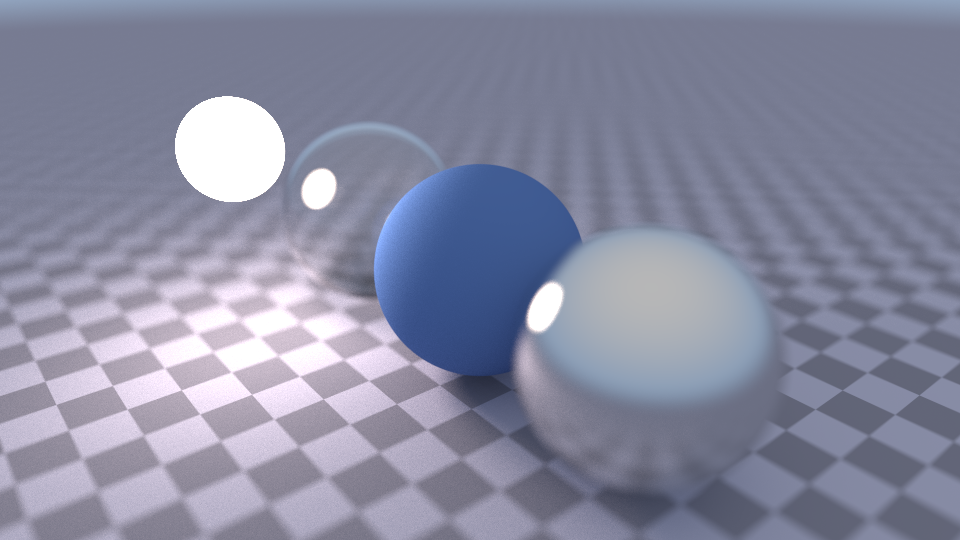
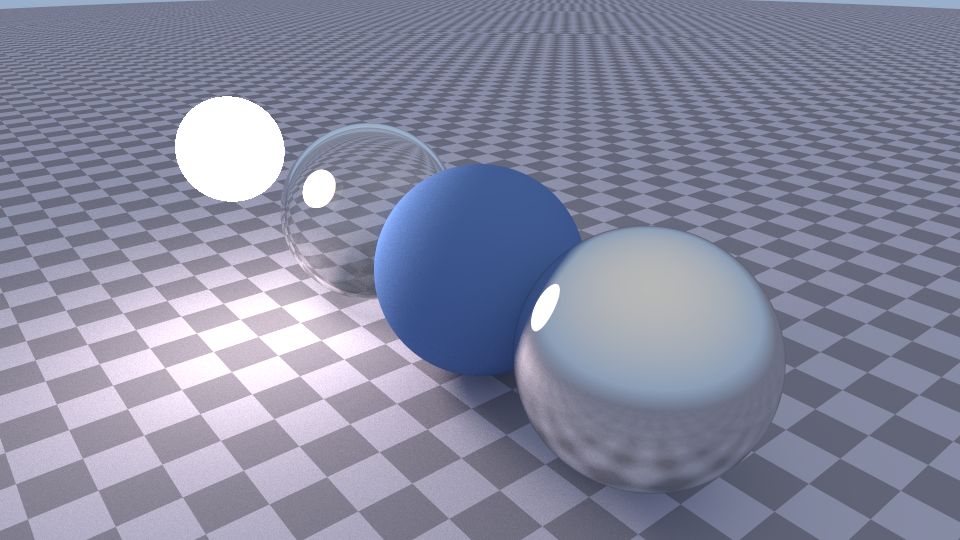
Proper light solid angle sampling

diff --git a/Cpp/src/materials.cpp b/Cpp/src/materials.cpp
@@ -5,7 +5,7 @@
 
 #include "sphere.h"
 
-//#define SAMPLE_LIGHTS
+#define SAMPLE_LIGHTS
 
 material* material::default = new lambertian( 1 );
 
@@ -29,27 +29,22 @@ bool lambertian::scatter( const ray& r_in, const hit_record& rec, vec3& attenuat
 
     for each ( sphere * sphere_light in sphere::lights )
     {
-        float r = sphere_light->radius;
+        const vec3& o = rec.P;
+        const vec3& c = sphere_light->center;
+        const float r = sphere_light->radius;
 
-        // Naive GS version (equivalent to Aras' method)
-        dir = unit_vector( sphere_light->center + random_unit_dir() * r - rec.P );
-        ray light_ray( rec.P, dir );
+        vec3 oc = c - o;
+        vec3 w = unit_vector( oc );
+        vec3 u = unit_vector( cross( fabs(w.x())>.01f ? vec3(0,1,0) : vec3(1,0,0), w ) );
+        vec3 v = cross( w, u );
+        float cosAMax = sqrtf( 1 - r * r / oc.squared_length() );
+        float eps1 = randf(), eps2 = randf();
+        float cosA = 1 - eps1 + eps1 * cosAMax;
+        float sinA = sqrtf( 1 - cosA * cosA );
+        float phi  = 2 * float(M_PI) * eps2;
+        dir = unit_vector( u * cosf(phi) * sinA + v * sinf(phi) * sinA + w * cosA );
 
-        // Aras sampling method
-        // create a random direction towards sphere
-        // coord system for sampling: sw, su, sv
-        //vec3 sw = unit_vector(sphere_light->center - rec.P);
-        //vec3 su = unit_vector(cross(fabs(sw.x())>0.01f ? vec3(0, 1, 0) : vec3(1, 0, 0), sw));
-        //vec3 sv = cross(sw, su);
-        //// sample sphere by solid angle
-        //float cosAMax = sqrtf(1.0f - r*r / (rec.P - sphere_light->center).squared_length());
-        //float eps1 = randf(), eps2 = randf();
-        //float cosA = 1.0f - eps1 + eps1 * cosAMax;
-        //float sinA = sqrtf(1.0f - cosA*cosA);
-        //float phi = 2 * float(M_PI) * eps2;
-        //vec3 l = su * cosf(phi) * sinA + sv * sin(phi) * sinA + sw * cosA;
-        //l.make_unit_vector();
-        //ray light_ray(rec.P, l);
+        ray light_ray( o, dir );
 
         #pragma omp atomic
         rays_cast++;
@@ -58,17 +53,9 @@ bool lambertian::scatter( const ray& r_in, const hit_record& rec, vec3& attenuat
         {
             if ( rec_light.id == sphere_light->id )
             {
-                // Naive GS version
-                // float dist2 = (rec_light.P - rec.P).squared_length();
-                float dist2 = ( sphere_light->center - rec.P ).squared_length();
-                vec3 scale = attenuation / ( 4 * float( M_PI ) * r * r );
-                scale *= std::max( 0.0f, dot( -light_ray.dirref(), rec_light.N ) );
-                scale *= std::min( 1.0f, 1.0f / dist2 );
-
-                // Aras version (solid angle)
-                //vec3 scale = attenuation * ( 2 - 2 * cosAMax );
-
-                direct_light += ( scale * sphere_light->mat->emission ) * std::max( 0.0f, dot( light_ray.dirref(), rec.N ) );
+                float inv_pdf_simp = 2 * ( 1 - cosAMax );
+                vec3 nl = dot( rec.N, r_in.dirref() ) < 0 ? rec.N : -rec.N;
+                direct_light += attenuation * sphere_light->mat->emission * std::max( 0.0f, dot( dir, nl ) ) * inv_pdf_simp;
             }
         }
     }

diff --git a/Cpp/src/main.cpp b/Cpp/src/main.cpp
@@ -20,6 +20,7 @@
 #define NB_OBJS 6
 #define MAX_DEPTH 6
 #define SAMPLES_AA 64
+//#define DIRECT_LIGHTING_ONLY
 
 static unsigned int rays_cast = 0;
 
@@ -36,22 +37,10 @@ vec3 trace_ao( const ray& r, hitable* scene )
 
         if ( scene->hit( ray( rec.P, ao_dir ), TMIN_EPS, std::numeric_limits<float>::max(), rec ) )
             return 0;
-
-        //else
-        //{
-        //    vec3 unit_dir = unit_vector( ao_dir );
-        //    float t = abs(unit_dir.y()); // 0.5f * unit_dir.y() + 0.5f;
-        //    return 0.6f * ( t*vec3(1.0) + (1.0f-t)*vec3(0.5f, 0.7f, 1.0f) );
-        //}
     }
 
     return 1;
-    //vec3 unit_dir = unit_vector( r.dirref() );
-    //float t = abs(unit_dir.y()); // 0.5f * unit_dir.y() + 0.5f;
-    //return 0.6f * ( t*vec3(1.0) + (1.0f-t)*vec3(0.5f, 0.7f, 1.0f) );
 }
-
-//#define DIRECT_LIGHTING_ONLY
 
 vec3 trace_light( const ray& r, hitable* scene, int depth = 0 )
 {
@@ -142,7 +131,7 @@ int main()
 
     vec3 lookfrom = vec3( 5, 3, 4 );
     vec3 lookat = 0;
-    camera cam( lookfrom, lookat, vec3( 0, 1, 0 ), 40, 16.0f / 9.0f, 0.5f, ( lookfrom - lookat ).length() );
+    camera cam( lookfrom, lookat, vec3( 0, 1, 0 ), 40, 16.0f / 9.0f, 0.0f, ( lookfrom - lookat ).length() );
 
     hitable* list[NB_OBJS];
     list[0] = new sphere( vec3( 0 ),                 1, new lambertian( vec3( 0.1f, 0.2f, 0.5f ) ) );
@@ -175,6 +164,8 @@ int main()
         for ( int i = 0; i < w; i++ )
         {
             vec3 col( 0 );
+            //if ( i == 264 && j == 212 )
+            //    printf("Oops\n");
 
             for ( int k = 0; k < SAMPLES_AA ; k++ )
             {

diff --git a/Cpp/include/hitable_list.h b/Cpp/include/hitable_list.h
@@ -22,7 +22,7 @@ bool hitable_list::hit( const ray& r, float t_min, float t_max, hit_record& rec 
 
     for ( int i = 0; i < list_size; i++ )
     {
-        if ( list[i]->hit( r, t_min, closest, rec_temp ) && rec_temp.t < closest )
+        if ( list[i]->hit( r, t_min, closest, rec_temp ) )
         {
             hit_something = true;
             closest = rec_temp.t;
